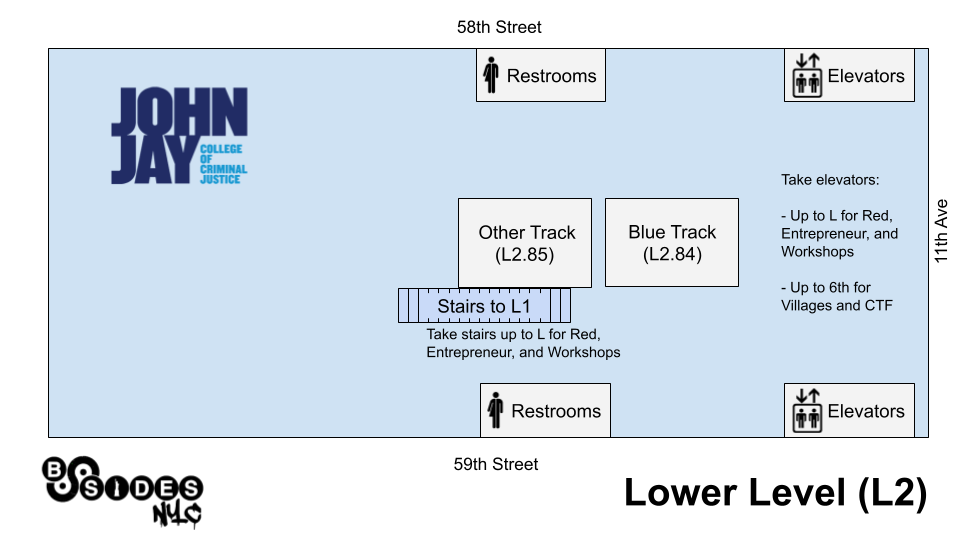
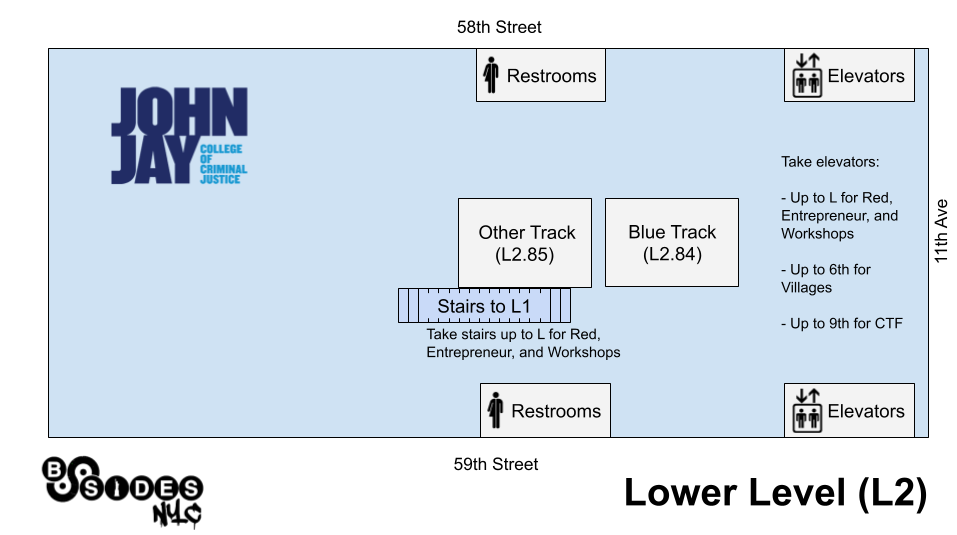
Updated venue maps to address #168, made ctfs more config-centric

Changed region(s): [[0.8182, 0.2991, 0.9394, 0.628]]

diff --git a/_includes/ctf.html b/_includes/ctf.html
@@ -2,53 +2,39 @@
 <section id="about-ctf" class="about-ctf" style="background-color: white">
     <div class="content-wrapper">
         <div class="col-md-8 col-md-offset-2">
-            <h3>Game On!</h3>
-            <p>We are so excited to offer multiple Capture The Flag (CTF) competitions. Play one or play them all! All CTFs require a laptop and have both offensive and defensive challenges.</p>
-            <!-- CTFd Start -->
+            <h3>{{ site.ctfHeader }}</h3>
+            <p>{{ site.ctfHeaderMessage }}</p>
+            <p>{{ site.ctfHeaderMessageFloor }}</p>
+
+            {% for ctf in site.ctfs %}
+
+            <!-- ctf start -->
             <div class="col-md-6">
                 <div class="ctf-header ctf-img-wrapper">
-                    <img class="img-responsive" src="{{ site.baseurl }}/img/ctf/ctfd.svg">  
+                    <img class="img-responsive" src="{{ site.baseurl }}/img/ctf/{{ ctf.logo }}">  
                 </div>
                 <div class="ctf-content">
-                    <h4>Play Whenever</h4>
+                    <h4>{{ ctf.header }}</h4>
                     <ul>
-                        <li>Jeopardy-Style CTF</li>
-                        <li>Reverse engineering, vulnerable web applications, and more</li>
-                        <li>Play all day or casually pick up a challenge</li>
-                        <li>Individual or team-based</li>
-                        <li>Compare your progress against others on leaderboard</li>
+                        {% for feature in ctf.features %}
+                        <li>{{ feature }}</li>
+                        {% endfor %}
                     </ul>
                 </div>
                 <div class="ctf-footer">
-                    <a href="{{ site.ctfdUrl }}" class="btn btn-primary disabled" target="_blank">Register Now</a><br>
-                    <small>Registration opens day of event</small><br>
-                    <a href="https://ctfd.io">Learn more</a> 
+                    {% for registration in ctf.registration %}
+                    <a href="{{ registration.url }}" class="btn btn-primary {% if registration.disabled %}disabled{% endif %}" target="_blank">{{ registration.title }}</a>
+                    {% endfor %}
+                    <br>
+                    {% if ctf.registrationMessage %}
+                    <small>{{ ctf.registrationMessage }}</small><br>
+                    {% endif %}
+                    <a href="{{ ctf.url }}">Learn more</a> 
                 </div>
             </div>
-            <!-- CTFd End -->
-            <!-- Pros v Joes Start -->
-            <div class="col-md-6">
-                <div class="ctf-header ctf-img-wrapper">
-                    <img class="img-responsive" src="{{ site.baseurl }}/img/ctf/PvJlogo.png">  
-                </div>
-                <div class="ctf-content">
-                    <h4>Full Day Event</h4>
-                    <ul>
-                        <li>Register before BSidesNYC to participate</li>
-                        <li>Offensive vs Defensive Style CTF</li>
-                        <li>Team based activities</li>
-                        <li>"Joes" learn and face challenges</li>
-                        <li>"Pros" flex their skills and help the Joes</li>
-                    </ul>
-                </div>
-                <div class="ctf-footer">
-                    <a href="https://forms.gle/68pwNwQARzPMuMjY7" class="btn btn-primary" target="_blank">Pro Registration</a>
-                    <a href="https://forms.gle/MaHcxPg9nZPDv98X9" class="btn btn-primary" target="_blank">Joe Registration</a><br> 
-                    <a href="http://prosversusjoes.net/">Learn more</a> 
-                </div>
-            </div>
-            <!-- Pros v Joes End -->
-            
+            <!-- ctf end -->
+
+            {% endfor %}
         </div>
     </div>
 </section>

diff --git a/_includes/venue-map.html b/_includes/venue-map.html
@@ -25,6 +25,12 @@
                 <img class="animated venue-map" data-animation="fadeIn" src="/img/venue/bsidesnyc-johnjay-6th.png">
             </div>
         </div>
+        <div class="row">
+            <div class="col-lg-6 col-lg-offset-3 col-xs-12">
+                <h4>6th Floor</h4>
+                <img class="animated venue-map" data-animation="fadeIn" src="/img/venue/bsidesnyc-johnjay-9th.png">
+            </div>
+        </div>
     </div>
 </section>
 <!-- End Venue Section -->
